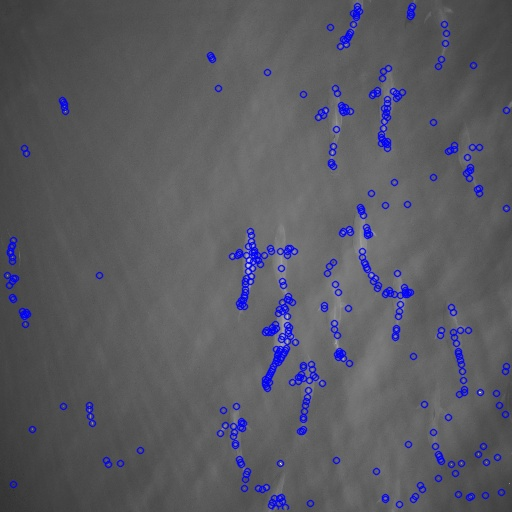
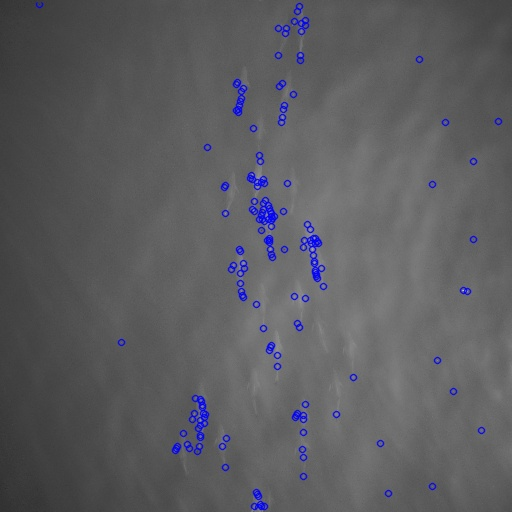
improved convnet, implemented dropout, added interactivity in tunacounter

diff --git a/08_TunaCounter/main.py b/08_TunaCounter/main.py
@@ -37,20 +37,23 @@ from skimage.morphology import watershed
 #image = cv2.drawKeypoints(image, keypoints, np.array([]), (0,0,255), cv2.DRAW_MATCHES_FLAGS_DRAW_RICH_KEYPOINTS)
  
 
-def process(image):
+def process(image, size):
 
-    #RESIZE
-    image = cv2.resize(image, dsize=(512,512))
+    #REDUCE NOISE -- SHIFT
+    shifted = cv2.pyrMeanShiftFiltering(image,size,size) # -- 9,21 arbitrary
 
-    #REDUCE NOISE
-    shifted = cv2.pyrMeanShiftFiltering(image,9,21) # -- 9,21 arbitrary
-
-    #CONVERT TO GRAYSCALE
+    # TO GRAYSCALE
     gray = cv2.cvtColor(shifted, cv2.COLOR_BGR2GRAY)
 
+    #REMOVE SPECULAR LIGHT
+    v,trunc = cv2.threshold(gray,128,128,cv2.THRESH_TRUNC) # -- remove specular light
+
+    cv2.imshow("TRUNC",gray)
+
     #SUBTRACT BACKGROUND
-    gray = cv2.absdiff(gray,cv2.mean(gray)[0])
-    cv2.imshow("TEST",gray)
+    gray = cv2.absdiff(trunc,cv2.mean(trunc)[0])
+
+    #cv2.imshow("TEST",gray)
 
     #ksize = 7
     #g_image = cv2.GaussianBlur(gray,(ksize,ksize),0)
@@ -59,14 +62,14 @@ def process(image):
 
     #APPLY ADAPTIVE THRESHOLD
     thresh = cv2.adaptiveThreshold(gray,255,cv2.ADAPTIVE_THRESH_GAUSSIAN_C,
-            cv2.THRESH_BINARY_INV,13,2) # -- 13,2 arbitrary
+            cv2.THRESH_BINARY_INV,size+1 if size%2==0 else size,2) # -- 13,2 arbitrary
     cv2.imshow("THRSH",thresh) # --> EDGES
 
     #val, thresh = cv2.threshold(gray,110,255,cv2.THRESH_BINARY| cv2.THRESH_OTSU)
 
     #COMPLETE CONTOUR
     kernel = np.ones((3,3),np.float32) # -- 3,3 arbitrary
-    dilated = cv2.dilate(thresh,kernel,iterations = 4) # -- 3 arbitrary
+    dilated = cv2.dilate(thresh,kernel,iterations = 1) # -- 3 arbitrary
     #cv2.imshow("DILATED",dilated)
 
     #FILL CONTOUR
@@ -78,13 +81,19 @@ def process(image):
     fast = cv2.FastFeatureDetector_create()
     kp = fast.detect(gray,None)
     kpts = cv2.drawKeypoints(image,kp,image.copy(),color=(255,0,0))
-    cv2.imshow("KeyPoints",kpts)
-    return image, closed
+    #cv2.imshow("KeyPoints",kpts)
+    return closed
 
-def identify(image,processed):
+def within(a,b,c):
+    return a<b and b<c
+
+def circleArea(r):
+    return 3.14*r*r
+
+def identify(image,processed,size):
 
     D = ndimage.distance_transform_edt(processed.copy())
-    localMax = peak_local_max(D, indices=False, min_distance=40,
+    localMax = peak_local_max(D, indices=False, min_distance=size/2,
             labels=processed.copy())
      
     # perform a connected component analysis on the local peaks,
@@ -111,42 +120,87 @@ def identify(image,processed):
             c = max(cnts, key=cv2.contourArea)
             contours += [c]
 
-    c = max(contours, key=cv2.contourArea)
-    ar = cv2.contourArea(c) # max area
+    #c = max(contours, key=cv2.contourArea)
+    #ar = cv2.contourArea(c) # max area
+    ar = circleArea(size)
 
-    valid_contours = [c for c in contours if cv2.contourArea(c) > 0.5 * ar]
+    valid_contours = [c for c in contours if within(ar * 0.75, cv2.contourArea(c), ar * 1.5)]
     #arbitrary heuristic : valid "tuna" must be at least bigger than half of the biggest one
-
+    identified = image.copy()
     for i,c in enumerate(valid_contours):
             # draw a circle enclosed the object
             ((x, y), r) = cv2.minEnclosingCircle(c)
-            cv2.circle(image, (int(x), int(y)), int(r), (0, 255, 0), 2)
-            cv2.putText(image, "#{}".format(i), (int(x) - 10, int(y)),
+            cv2.circle(identified, (int(x), int(y)), int(r), (0, 255, 0), 1)
+            cv2.putText(identified, "#{}".format(i), (int(x) - 10, int(y)),
                     cv2.FONT_HERSHEY_SIMPLEX, 0.6, (0, 0, 255), 2)
 
-    return len(valid_contours)
+    return len(valid_contours), identified
+
+x_prev = 0
+y_prev = 0
+pts = []
+drawing = False
+
+def get_size(event, x, y, flags, param):
+    global x_prev
+    global y_prev
+    global image
+    global orig
+    global pts
+    global drawing
+    if event == cv2.EVENT_LBUTTONDOWN:
+        x_prev = x
+        y_prev = y
+        image = orig.copy()
+        pts = []
+        drawing = True
+    if event == cv2.EVENT_MOUSEMOVE:
+        if drawing:
+            pts += [[x,y]]
+            cv2.line(image,(x_prev,y_prev),(x,y),(255,0,0),1)
+            cv2.imshow("Image",image)
+            x_prev,y_prev = x,y
+    elif event == cv2.EVENT_LBUTTONUP:
+        drawing = False
+        pts = np.asarray(pts)
+        #cv2.fitEllipse(pts)
+        ar = cv2.contourArea(pts)
+        r = int(np.round(np.sqrt(ar/np.pi)))
+        print ("R", r)
+
+        processed = process(orig,r)
+        n,identified = identify(orig,processed,r)
+
+        cv2.imshow("Image", image)
+        cv2.imshow("Processed", processed)
+        cv2.imshow("Identified", identified)
+
+#         circleSize = np.zeros((256,256),dtype=np.uint8)
+#         cv2.circle(circleSize, (128,128), int(r/2), (255,255,255),1)
+#         cv2.circle(circleSize, (128,128), int(r), (255,255,255),1)
+#         cv2.circle(circleSize, (128,128), int(r*2), (255,255,255),1)
+#         cv2.imshow("Size", circleSize)
+
+        print("[INFO] {} unique segments found".format(n))
 
 
 BASE_DIR = 'Samples-Hexacopter-Tuna'
 
 #RANDOM IMAGE
-#SUB_DIR = BASE_DIR + '/' + random.choice(os.listdir(BASE_DIR))
-#IMG_FILE = SUB_DIR + '/' +random.choice(os.listdir(SUB_DIR))
+SUB_DIR = BASE_DIR + '/' + random.choice(os.listdir(BASE_DIR))
+IMG_FILE = SUB_DIR + '/' +random.choice(os.listdir(SUB_DIR))
 
-IMG_FILE = BASE_DIR + '/' + 'Clear' + '/' + 'P9010878.JPG' 
+#IMG_FILE = BASE_DIR + '/' + 'Clear' + '/' + 'P9010878.JPG' 
 #IMG_FILE = 'Samples-Hexacopter-Tuna/Test/P9010093.JPG'
+#IMG_FILE = 'Samples-Hexacopter-Tuna/Clear/P9011022.JPG'
 
 print 'FILE : {}'.format(IMG_FILE)
-
-image = cv2.imread(IMG_FILE)
-
-image, processed = process(image)
-n = identify(image,processed)
-
-print("[INFO] {} unique segments found".format(n))
+orig = cv2.imread(IMG_FILE)
+orig = cv2.resize(orig, dsize=(512,512))
 
 # show the output image
-cv2.imshow("Image", image)
-cv2.imshow("Processed", processed)
+mainWindow = cv2.namedWindow("Image")
+cv2.imshow("Image", orig)
 
+cv2.setMouseCallback("Image", get_size)
 cv2.waitKey(0)

diff --git a/05_ConvNet/ConvolutionLayer.cpp b/05_ConvNet/ConvolutionLayer.cpp
@@ -4,7 +4,7 @@
 ConvolutionLayer::ConvolutionLayer(int d_i, int d_o)
 	:d_i(d_i),d_o(d_o),dW(d_o),dW_p(d_o),db(d_o),db_p(d_o){
 
-	m = 0.0; //momentum
+	m = 0.3; //momentum
 
 	// Size Before SubSampling
 	// d_i = depth of input layers
@@ -194,7 +194,7 @@ void ConvolutionLayer::setup(Size s){
 	O.clear();
 
 	for(int o=0;o<d_o;++o){
-		b.push_back(Mat(s,DataType<float>::type,Scalar::all(0.1)));//wrong dimension though!	
+		b.push_back(Mat(s,DataType<float>::type,Scalar::all(0.0)));//wrong dimension though!	
 		db.push_back(Mat(s,DataType<float>::type,Scalar::all(0.0)));//wrong dimension though!	
 		db_p.push_back(Mat(s,DataType<float>::type,Scalar::all(0.0)));//wrong dimension though!	
 		O.push_back(Mat(s,DataType<float>::type));//wrong dimension though!	

diff --git a/11_Dropout/main.cpp b/11_Dropout/main.cpp
@@ -1,0 +1,23 @@
+#include <iostream>
+#include <opencv2/core/core.hpp>
+#include <opencv2/imgproc/imgproc.hpp>
+#include <ctime>
+
+using namespace cv;
+
+Mat dropout(Mat& I, double p){
+	Mat mask(I.size(),cv::DataType<float>::type);
+	cv::randu(mask,0.0,1.0);
+	cv::threshold(mask,mask,p,1.0,cv::THRESH_BINARY);
+	return I.mul(mask);
+}
+
+int main(){
+	cv::theRNG().state = time(0);
+	Mat I(5,5,cv::DataType<float>::type);
+	cv::randu(I,0,1.0);
+
+	std::cout << I << std::endl;
+	std::cout << dropout(I,0.5) << std::endl;
+
+}

diff --git a/11_Dropout/main.py b/11_Dropout/main.py
@@ -1,0 +1,17 @@
+import cv2
+import numpy as np
+
+def dropout(i,p):
+    mask = np.empty(i.shape, dtype=np.int16)
+    mask = cv2.randu(mask,0,255)
+
+    val, mask = cv2.threshold(mask,p*255,255,cv2.THRESH_BINARY)
+    mask = np.asarray(mask,dtype=np.float64) / 255.0
+    return cv2.multiply(i,mask)
+
+I = np.random.rand(5,5)
+O = dropout(I,0.5)
+
+print I
+
+print O

diff --git a/05_ConvNet/DenseLayer.cpp b/05_ConvNet/DenseLayer.cpp
@@ -3,7 +3,7 @@
 
 DenseLayer::DenseLayer(int d, int s_o)
 	:d(d),s_o(s_o),W(d),b(d),dW(d),db(d),g(d),dW_p(d),db_p(d),I(d),O(d),G(d){
-		m = 0.0; //momentum
+		m = 0.3; //momentum
 }
 void DenseLayer::setup(Size s){
 	this->s_i = s.height;
